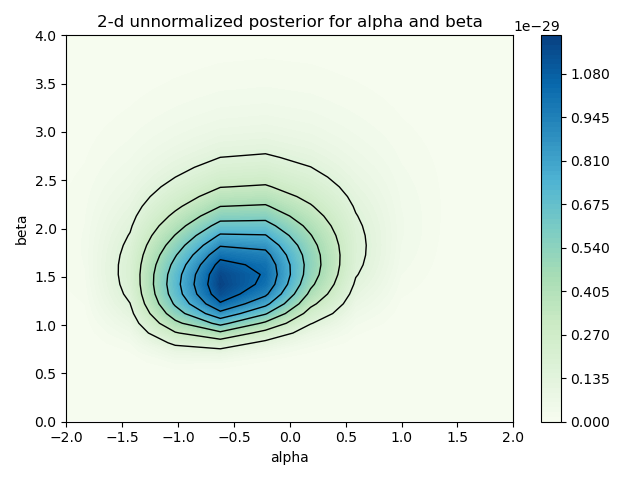
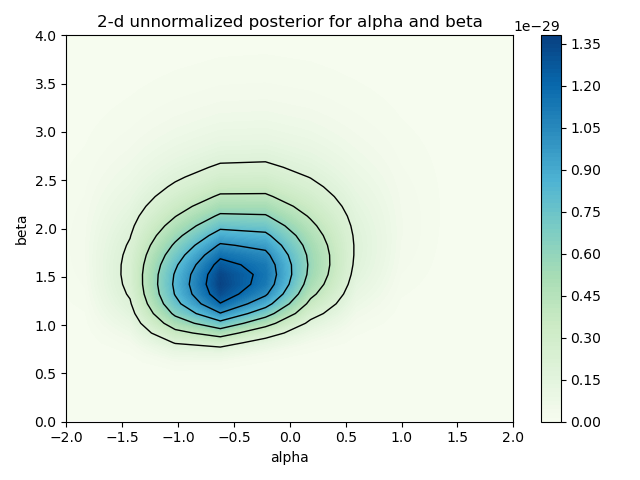
emcee sampling for part vii

diff --git a/main_partvii.py b/main_partvii.py
@@ -1,0 +1,215 @@
+"""!@file main_partvii.py
+@brief This is the main page for the solutions for lighthouse problem from part vi) to part viii) in the report.
+
+@details This contains all the codes you need to reproduce all the figures and results in the report.
+Usage: python main_partvii.py --nsteps 10000
+@author Created by Yichi Zhang (yz870) on 19/03/2024
+"""
+
+import os
+import time
+import numpy as np
+import arviz as az
+import emcee
+from emcee.autocorr import integrated_time
+from scipy.stats import norm, loguniform
+from helpers.utils import plot_posterior_3d, plot_histogram
+from helpers.diagonistics import geweke_test, chain_plotter
+import matplotlib.pyplot as plt
+
+# get number of steps from the command line
+import argparse
+parser = argparse.ArgumentParser(description='Run the MCMC algorithm for the lighthouse problem')
+parser.add_argument('--nsteps', type=int, help='number of steps for the MCMC algorithm')
+if parser.parse_args().nsteps is not None:
+    nsteps = parser.parse_args().nsteps
+else:
+    nsteps = 10000
+
+# load locations and intensities of the lighthouse flashes
+# if there's a data file 'lighthouse_flash_data.txt', load the data from the file
+try:
+    data = np.loadtxt('lighthouse_flash_data.txt')
+    print('Data loaded from file')
+except:
+    raise FileNotFoundError('Data file not found')
+
+locations = data[:,0]
+intensity = data[:,1]
+
+# define our model for the lighthouse problem
+print('Part vi) We use a lognormal prior for the intensity parameter I_0')
+@np.vectorize
+def cauchy_pdf(x : float, alpha : float, beta : float) -> float:
+    """@brief Cauchy distribution pdf
+
+        @details This function returns the probability density function of the Cauchy distribution at a given point x.
+
+        @param x: float, the point at which to evaluate the pdf
+        @param alpha: float, the location parameter
+        @param beta: float, the scale parameter
+    """
+    return beta / (np.pi * (beta**2 + (x - alpha)**2))
+
+@np.vectorize
+def log_normal_pdf(x : float, mu : float, sigma : float) -> float:
+    """@brief Log-normal distribution pdf
+
+        @details This function returns the probability density function of the log-normal distribution at a given point x.
+
+        @param x: float, the point at which to evaluate the pdf
+        @param mu: float, the location parameter
+        @param sigma: float, the scale parameter
+    """
+    if x <= 0:
+        return 0
+    else:
+        return 1/(x*sigma*np.sqrt(2*np.pi)) * np.exp(-0.5*((np.log(x)-mu)/sigma)**2)
+    
+def prior(I_0 : float, alpha : float, beta : float, I_0_min : float) -> float:
+    """@brief Prior distribution
+
+        @details This function returns the prior distribution of the parameters I_0, alpha and beta.
+        We assume a log-normal prior for I_0, a normal prior for alpha and a log-uniform prior for beta.
+
+        @param I_0: float, the intensity parameter
+        @param alpha: float, the location parameter
+        @param beta: float, the scale parameter
+        @param I_0_min: float, the minimum value of I_0
+    """
+    if I_0 < I_0_min:
+        return 0
+    else:
+        I_0_shifted = I_0 - I_0_min
+        return log_normal_pdf(I_0_shifted, 2, 1) * loguniform.pdf(beta, 0.01, 5) * norm.pdf(alpha, 0,4)
+    
+def likelihood(positions : np.array, intensity : np.array, I_0 : float, alpha : float, beta : float) -> float:
+    """@brief Likelihood function
+
+        @details This function returns the likelihood of the data given the parameters I_0, alpha and beta.
+
+        @param positions: np.array, the locations of the lighthouse flashes
+        @param intensities: np.array, the intensities of the lighthouse flashes
+        @param I_0: float, the intensity parameter
+        @param alpha: float, the location parameter
+        @param beta: float, the scale parameter
+    """
+    likelihood_locations = np.prod([cauchy_pdf(xk, alpha, beta) for xk in positions], axis=0)
+
+    distance = beta**2 + (positions - alpha)**2
+    mu = np.log(I_0) - np.log(distance)
+    likelihood_intensities = np.prod([log_normal_pdf(intensity[i], mu[i], 0.1) for i in range(len(intensity))], axis=0)
+    return likelihood_locations * likelihood_intensities
+
+def posterior(positions : np.array, intensities : np.array, I_0 : float, alpha : float, beta : float) -> float:
+    """@brief Posterior distribution
+
+        @details This function returns the posterior distribution of the parameters I_0, alpha and beta given the data.
+
+        @param positions: np.array, the locations of the lighthouse flashes
+        @param intensities: np.array, the intensities of the lighthouse flashes
+        @param I_0: float, the intensity parameter
+        @param alpha: float, the location parameter
+        @param beta: float, the scale parameter
+        @param I_0_min: float, the minimum value of I_0
+    """
+    # absolute intensity of the lighthouse should be at least the highest intensity observed
+    I_0_min = np.max(intensities) 
+    return likelihood(positions, intensities, I_0, alpha, beta) * prior(I_0, alpha, beta, I_0_min)
+
+# visualize the posterior distribution for different values of I_0
+fig1 = plot_posterior_3d(locations, intensity, posterior, I_0s = [8,16,24], alpha_range = np.array([-2,2]), beta_range = np.array([0,4]))
+fig1.savefig('figures/posterior_3d.png')
+
+
+# part vii) we use emcee to sample from the posterior distribution
+def log_posterior(params : np.array, locations : np.array, intensities : np.array) -> float:
+    """@brief Log posterior distribution
+
+        @details This function returns the log posterior distribution of the parameters I_0, alpha and beta given the data.
+
+        @param params: np.array, the parameters I_0, alpha and beta
+        @param locations: np.array, the locations of the lighthouse flashes
+        @param intensities: np.array, the intensities of the lighthouse flashes
+    """
+    I_0, alpha, beta = params
+    if I_0 < np.max(intensities) or beta < 0.01 or beta > 5:
+        return -np.inf
+    else:
+        I_0_shifted = I_0 - np.max(intensities)
+        log_prior = np.log(log_normal_pdf(I_0_shifted, 2, 1)) + np.log(norm.pdf(alpha, 0, 4)) + np.log(loguniform.pdf(beta, 0.01, 5))
+        log_likelihood_x = np.sum([np.log(cauchy_pdf(xk, alpha, beta)) for xk in locations])
+        distance = beta**2 + (locations - alpha)**2
+        mu = np.log(I_0) - np.log(distance)
+        log_likelihood_I = np.sum([np.log(log_normal_pdf(intensity[i], mu[i], 1)) for i in range(len(intensity))])
+        return log_prior + log_likelihood_x + log_likelihood_I
+         
+print('Part vii) We use emcee to sample from the posterior distribution')
+nwalkers, ndim = 10, 3
+print(f'running emcee with {nwalkers} walkers and {nsteps} steps')
+np.random.seed(0)
+start_i0 = np.random.uniform(8,16, nwalkers)
+start_alpha = np.random.uniform(0,2, nwalkers)
+start_beta = np.random.uniform(1,5, nwalkers)
+start = np.column_stack([start_i0, start_alpha, start_beta])
+sampler = emcee.EnsembleSampler(nwalkers, ndim, log_posterior, args=[locations, intensity])
+t_start = time.time()
+sampler.run_mcmc(start, nsteps)
+t_end = time.time()
+print(f"Time taken = {t_end - t_start} seconds")
+print(f"Time per iteration = {(t_end - t_start)/nsteps} seconds")
+print(f"Acceptance fraction = {np.mean(sampler.acceptance_fraction)}")
+
+# convergence diagonistics: informal
+# plot the chain
+fig, axs = plt.subplots(3, 1, figsize=(20, 6))
+
+for i in range(nwalkers):
+    axs[0].plot(sampler.chain[i,:,0])
+    axs[1].plot(sampler.chain[i,:,1])
+    axs[2].plot(sampler.chain[i,:,2])
+
+axs[0].set_title('I0 chain')
+axs[1].set_title('alpha chain')
+axs[2].set_title('beta chain')
+plt.tight_layout()
+fig.savefig('figures/chains.png')
+
+# convergence diagonistics: formal
+# first, we detect burn-in using geweke test
+for n in range(nwalkers):
+    z_scores_i0 = geweke_test(sampler.chain[n,:,0], intervals = 100)
+    z_scores_alpha = geweke_test(sampler.chain[n,:,1], intervals = 100)
+    z_scores_beta = geweke_test(sampler.chain[n,:,2], intervals = 100)
+    
+    
+
+# second, we detect convergence using gelman-rubin test
+
+
+# calculate the Gelman-Rubin statistic
+
+
+# if the r_hat is close to 1, the chains are converged
+
+# compute the autocorrelation time
+
+
+# compute the effective sample size
+
+
+time_taken = t_end - t_start
+print(f'effective sample size: {num_iid_samples}')
+print(f'percentage of effective sample size: {num_iid_samples/nsteps*100}%')
+print(f'time per effective sample: {time_taken/num_iid_samples} seconds')
+
+# histogram of the joint and marginal samples
+fig = plot_histogram(iid_samples, ['alpha', 'beta'], contour=True)
+fig.savefig('figures/histogram.png')
+print(f'joint and marginal samples saved to figures/histogram.png')
+
+# show estimated mean and standard deviation
+print('---------Final Results---------')
+print(f'alpha {np.mean(iid_samples[:,0])} +/- {np.std(iid_samples[:,0])}')
+print(f'beta {np.mean(iid_samples[:,1])} +/- {np.std(iid_samples[:,1])}')
+print(f'I_0 {np.mean(iid_samples[:,2])} +/- {np.std(iid_samples[:,2])}')

diff --git a/main_partv.py b/main_partv.py
@@ -1,5 +1,5 @@
-"""!@mainpage Lighthouse Problem
-@brief This is the main page for the solutions for lighthouse problem
+"""!@file main_partv.py
+@brief This is the main page for the solutions for lighthouse problem from part iii) to part v) in the report.
 
 @details This contains all the codes you need to reproduce all the figures and results in the report.
 Usage: python main_partv.py --nsteps 10000
@@ -12,7 +12,6 @@ from helpers.utils import compare_mle, plot_posterior_2d, plot_histogram
 from helpers.diagonistics import chain_plotter, trace_plotter, geweke_test
 import os
 import time
-import typing 
 import numpy as np
 import arviz as az
 from emcee.autocorr import integrated_time
@@ -36,7 +35,6 @@ except:
     raise FileNotFoundError('Data file not found')
 
 locations = data[:,0]
-intensities = data[:,1]
 
 # define our model for the lighthouse problem
 @np.vectorize
@@ -72,7 +70,7 @@ def posterior(x : np.array, alpha : float, beta : float) -> float:
         @param alpha: float, the location parameter
         @param beta: float, the scale parameter
     """
-    return likelihood(x, alpha, beta) * loguniform.pdf(beta, 0.01, 5) * norm.pdf(alpha, 1.6,4)
+    return likelihood(x, alpha, beta) * loguniform.pdf(beta, 0.01, 5) * norm.pdf(alpha, 0,4)
 
 # part iii) numerically we compare the mle of alpha and mean and medium of the data
 def nll(params : np.array, data : np.array) -> float:
@@ -177,7 +175,7 @@ iid_samples = chain[burn_in::2*int(tau), 0, :]
 num_iid_samples = iid_samples.shape[0]
 print(f'effective sample size: {num_iid_samples}')
 print(f'percentage of effective sample size: {num_iid_samples/nsteps*100}%')
-print(f'time per effective sample: {num_iid_samples/time_taken} seconds')
+print(f'time per effective sample: {time_taken/num_iid_samples} seconds')
 
 # histogram of the joint and marginal samples
 fig = plot_histogram(iid_samples, ['alpha', 'beta'], contour=True)

diff --git a/helpers/utils.py b/helpers/utils.py
@@ -91,3 +91,34 @@ def plot_histogram(samples : np.array, labels : list[str], contour = True) -> pl
         fig.map_lower(sns.kdeplot, levels=[0.1,0.3,0.5,0.7,0.9], colors = 'darkblue')
     plt.tight_layout()
     return fig
+
+def plot_posterior_3d(locations, intensity, posterior, I_0s = [8,16,24], alpha_range = np.array([-2,2]), beta_range = np.array([0,4])):
+    """@brief Plot the 3D posterior distribution
+
+        @details This function plots the 3D posterior distribution of the parameters I_0, alpha and beta.
+        The range being plotted is specified by alpha_range and beta_range.
+        The I_0s are the values of I_0 to be plotted.
+
+        @param locations: np.array, the locations of the lighthouse flashes
+        @param intensity: np.array, the intensities of the lighthouse flashes
+        @param posterior: function, the posterior distribution
+        @param I_0s: list[float], the values of I_0
+        @param alpha_range: np.array, the range of alpha values
+        @param beta_range: np.array, the range of beta values
+
+        @return fig: plt.figure, the figure object
+    """
+
+    X,Y = np.meshgrid(np.linspace(alpha_range[0], alpha_range[1], 100), np.linspace(beta_range[0], beta_range[1], 100))
+    fig, axes = plt.subplots(1, len(I_0s), figsize=(20,5))
+    for i, I_0 in enumerate(I_0s):
+        posts = np.array([posterior(locations, intensity, I_0, alpha, beta) for alpha, beta in zip(X.ravel(), Y.ravel())]).reshape(X.shape)
+        axes[i].contour(X, Y, posts, colors='black', linewidths=1)
+        axes[i].contourf(X, Y, posts, 100, cmap='GnBu')
+        axes[i].set_title(f'I_0 = {I_0}')
+        axes[i].set_xlabel('alpha')
+        axes[i].set_ylabel('beta')
+    plt.tight_layout()
+
+    return fig
+    
